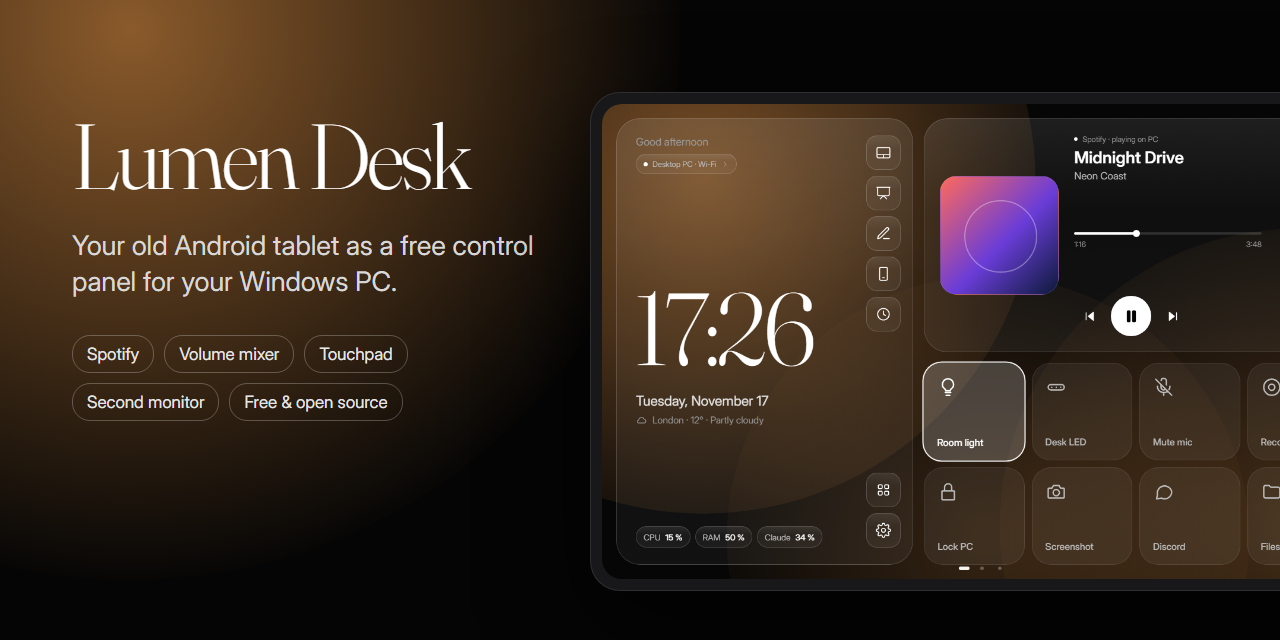
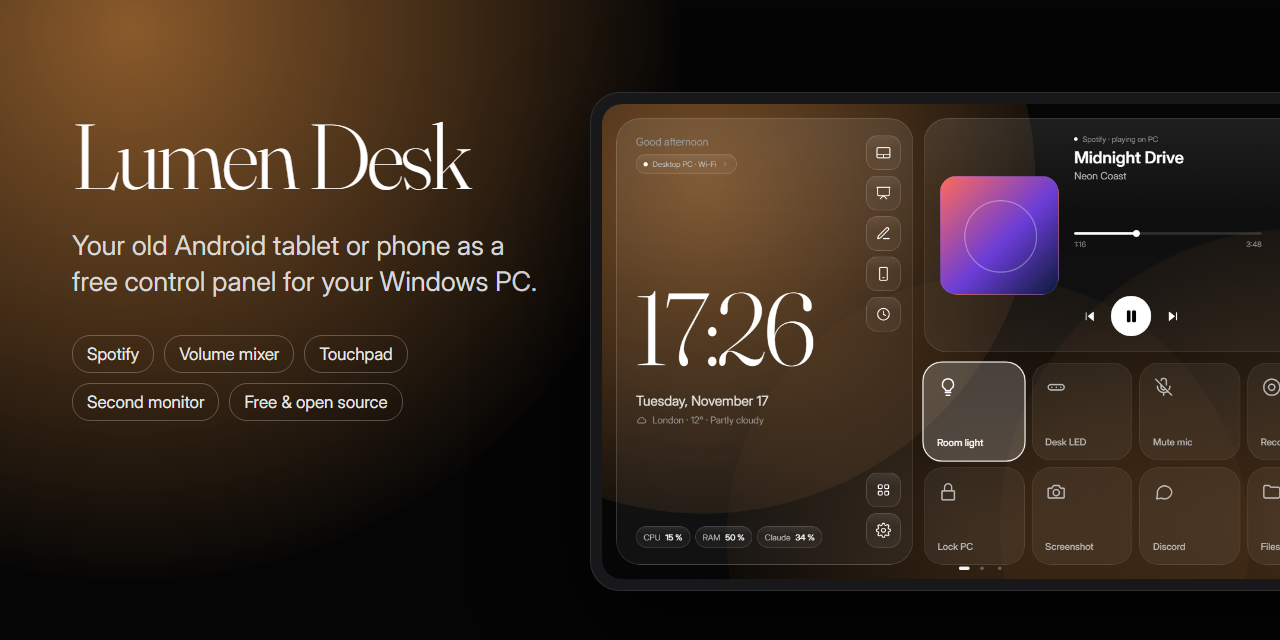
Say tablet or phone throughout the README, demo and social preview

Changed region(s): [[0.0312, 0.375, 0.4375, 0.4688]]

diff --git a/docs/index.html b/docs/index.html
@@ -4,8 +4,8 @@
 <meta charset="utf-8">
 <meta name="viewport" content="width=device-width, initial-scale=1">
 <title>Lumen Desk – live demo</title>
-<meta name="description" content="Turn an old Android tablet into a free control panel for your Windows PC. Try the tablet screen right here – demo data, nothing to install.">
-<meta property="og:title" content="Lumen Desk – your old tablet as a free Stream Deck">
+<meta name="description" content="Turn an old Android tablet or phone into a free control panel for your Windows PC. Try the app screen right here – demo data, nothing to install.">
+<meta property="og:title" content="Lumen Desk – your old tablet or phone as a free Stream Deck">
 <meta property="og:description" content="Clock, Spotify, per-app volume, one-tap shortcuts, touchpad and keyboard, second monitor. Free and open source.">
 <meta property="og:image" content="https://cyipex.github.io/lumen-desk/screenshots/demo-home.png">
 <link rel="icon" href="demo/favicon.svg">
@@ -166,7 +166,7 @@ select { font: inherit; color: #fff; background: rgba(255,255,255,0.06); border:
 <header class="top">
   <div class="grow">
     <h1>Lumen Desk</h1>
-    <p>Your old Android tablet as a free control panel for your Windows PC. This is the real tablet screen, running in your browser with demo data – tap the tiles, play the song, open the touchpad, the screensaver or the drawing tablet.</p>
+    <p>Your old Android tablet or phone as a free control panel for your Windows PC. This is the real app screen, running in your browser with demo data – tap the tiles, play the song, open the touchpad, the screensaver or the drawing tablet.</p>
   </div>
   <a class="btn primary" href="https://github.com/cyipex/lumen-desk/releases/latest">Download for Windows</a>
   <a class="btn" href="https://github.com/cyipex/lumen-desk">GitHub</a>

diff --git a/docs/social.html b/docs/social.html
@@ -19,7 +19,7 @@ p { font-size: 27px; line-height: 1.35; color: #d8d8d8; margin: 26px 0 0; }
 <div class="glow"></div>
 <div class="text">
   <h1>Lumen Desk</h1>
-  <p>Your old Android tablet as a free control panel for your Windows PC.</p>
+  <p>Your old Android tablet or phone as a free control panel for your Windows PC.</p>
   <div class="tags"><span>Spotify</span><span>Volume mixer</span><span>Touchpad</span><span>Second monitor</span><span>Free &amp; open source</span></div>
 </div>
 <div class="tablet"><img src="screenshots/demo-home.png" alt=""></div>

diff --git a/README.md b/README.md
@@ -1,6 +1,6 @@
 <h1 align="center">Lumen Desk</h1>
 
-<p align="center"><b>Turn your old Android tablet into a free control panel – and home screen – for your Windows PC.</b></p>
+<p align="center"><b>Turn your old Android tablet or phone into a free control panel – and home screen – for your Windows PC.</b></p>
 
 <p align="center">
   <a href="https://cyipex.github.io/lumen-desk/"><b>Try the live demo</b></a> ·
@@ -17,10 +17,10 @@
   <a href="LICENSE"><img src="https://img.shields.io/badge/license-MIT-blue" alt="MIT license"></a>
 </p>
 
-<p align="center"><a href="https://cyipex.github.io/lumen-desk/"><img src="docs/screenshots/demo.gif" width="900" alt="Lumen Desk on a tablet: home screen, shortcuts, touchpad with keyboard, volume mixer and clock screensaver"></a><br>
-<sub>The tablet screen with demo data. <a href="https://cyipex.github.io/lumen-desk/">Try it in your browser</a> – no install.</sub></p>
+<p align="center"><a href="https://cyipex.github.io/lumen-desk/"><img src="docs/screenshots/demo.gif" width="900" alt="Lumen Desk on a tablet or phone: home screen, shortcuts, touchpad with keyboard, volume mixer and clock screensaver"></a><br>
+<sub>The screen with demo data. <a href="https://cyipex.github.io/lumen-desk/">Try it in your browser</a> – no install.</sub></p>
 
-Lumen Desk is a small Windows app plus an Android app. The tablet becomes a **Stream-Deck-style panel**: a big clock, Spotify, the volume of every app, one-tap shortcuts, a touchpad and keyboard, a drawing tablet, a presentation remote – or a **second monitor**. It can replace the tablet's **home screen**, so it always comes back to the panel. Free, open source, no account, no cloud.
+Lumen Desk is a small Windows app plus an Android app for a **tablet or phone**. The device becomes a **Stream-Deck-style panel**: a big clock, Spotify, the volume of every app, one-tap shortcuts, a touchpad and keyboard, a drawing tablet, a presentation remote – or a **second monitor**. It can replace the device's **home screen**, so it always comes back to the panel. Free, open source, no account, no cloud.
 
 ## Install in one command
 
@@ -30,15 +30,15 @@ On the PC, open **PowerShell** and paste:
 irm https://raw.githubusercontent.com/cyipex/lumen-desk/main/get.ps1 | iex
 ```
 
-It downloads the latest installer from this repo's [Releases](https://github.com/cyipex/lumen-desk/releases/latest), checks its SHA-256 and starts it. Then on the tablet open
-**[github.com/cyipex/lumen-desk/releases/latest/download/lumen-desk.apk](https://github.com/cyipex/lumen-desk/releases/latest/download/lumen-desk.apk)**, install it, and allow the tablet on the PC when both show the same 6-digit code. That's it – [step by step below](#set-it-up-step-by-step).
+It downloads the latest installer from this repo's [Releases](https://github.com/cyipex/lumen-desk/releases/latest), checks its SHA-256 and starts it. Then on the tablet or phone open
+**[github.com/cyipex/lumen-desk/releases/latest/download/lumen-desk.apk](https://github.com/cyipex/lumen-desk/releases/latest/download/lumen-desk.apk)**, install it, and allow it on the PC when both show the same 6-digit code. That's it – [step by step below](#set-it-up-step-by-step).
 
 ## Why Lumen Desk?
 
 | | Lumen Desk | A Stream Deck |
 |---|---|---|
-| Price | **Free** – uses the tablet in your drawer | from about €150 |
-| Screen | 10″ touch screen: clock, Spotify, mixer, any layout | 15 small keys |
+| Price | **Free** – uses the old tablet or phone in your drawer | from about €150 |
+| Screen | the whole touch screen of a tablet or phone: clock, Spotify, mixer, any layout | 15 small keys |
 | Touchpad, keyboard, drawing tablet, second monitor | ✓ | – |
 | Home screen of the device (always returns to the panel) | ✓ | – |
 | Works without an account or cloud | ✓ | ✓ |
@@ -62,12 +62,12 @@ It downloads the latest installer from this repo's [Releases](https://github.com
 - 🖥 **Second monitor** – the tablet becomes an extra screen for the PC, with touch.
 - 📱 **Lumen Mirror** – see and control an Android phone (for example one with a broken screen) on the tablet.
 
-**The tablet itself**
-- 🏠 **Home screen (launcher)** – set Lumen Desk as the tablet's launcher: after power-on or Home it always goes straight back to the panel, with no app drawer in the way. The tablet's own apps are one tap away.
+**The tablet or phone itself**
+- 🏠 **Home screen (launcher)** – set Lumen Desk as the device's launcher: after power-on or Home it always goes straight back to the panel, with no app drawer in the way. The device's own apps are one tap away.
 - 🌙 **Clock screensaver** after 2 minutes or from its button – your photo, font, position, size and color, set on the PC; one touch closes it without pressing anything underneath.
 - 🔋 Battery saving: the screen dims when nobody touches it.
-- 📐 Fits any screen: 10″ tablets, 16:9 and 4:3 tablets, even phones held sideways.
-- ⬆ **Updates over Wi-Fi** – the PC offers new tablet versions; no cable needed.
+- 📐 Fits any screen: 10″ tablets, 16:9 and 4:3 tablets, and phones held sideways.
+- ⬆ **Updates over Wi-Fi** – the PC offers new versions of the app; no cable needed.
 
 **Your style**
 - 🎨 10 background colors, 20 clock fonts plus your own, two player styles – changed on the tablet or the PC, live.
@@ -106,6 +106,8 @@ It downloads the latest installer from this repo's [Releases](https://github.com
 
 ## Set it up step by step
 
+> Below it says *tablet* – a **phone** works exactly the same way (hold it sideways).
+
 ### Step 1 – On your PC
 Use the [one command](#install-in-one-command) above, or download **`LumenDeskSetup.exe`** from the [Releases](../../releases) page and run it (**Next → Install → Finish**).
 
@@ -113,8 +115,8 @@ Lumen Desk runs in the background, starts with Windows, and the **Lumen Desk** i
 
 > **"Windows protected your PC"?** The installer is not code-signed (that costs money for a free project), so Windows warns about it the first time. Click **More info → Run anyway**.
 
-### Step 2 – On your tablet
-1. Download **`lumen-desk.apk`** from the [Releases](../../releases) page – open the link directly on the tablet.
+### Step 2 – On your tablet or phone
+1. Download **`lumen-desk.apk`** from the [Releases](../../releases) page – open the link directly on the device.
 2. Open the file to install it. If Android asks, allow installing apps from this source.
 3. Open **Lumen Desk** on the tablet. It finds your PC by itself.
 
@@ -123,7 +125,7 @@ The tablet shows a 6-digit code. On the PC, open the **Lumen Desk** settings →
 
 Done! 🎉 Now make it yours: in the settings window click a tile to change what it does, drag tiles around, add pages, or pick a color under **Appearance** and style the clock under **Screensaver**.
 
-**Make it the home screen:** open the ⚙ settings on the tablet (bottom of the shortcut column) → **Set as default launcher**.
+**Make it the home screen:** open the ⚙ settings on the tablet or phone (bottom of the shortcut column) → **Set as default launcher**.
 
 ---
 

diff --git a/CHANGELOG.md b/CHANGELOG.md
@@ -14,7 +14,7 @@
 - **Lumen Mirror** – a phone app that shows and controls an Android phone on the tablet.
 - **Connection details** on the tablet and the PC (addresses, Wi-Fi, USB).
 - **Layout backups** – the PC keeps the last 30 versions of your pages and tiles; restore with one click.
-- Works on phones and other tablets too (16:9, 4:3) – the layout scales to fit.
+- Works on phones too, and on 16:9 and 4:3 tablets – the layout scales to fit.
 - One-command install: `irm https://raw.githubusercontent.com/cyipex/lumen-desk/main/get.ps1 | iex`.
 
 ### Security
